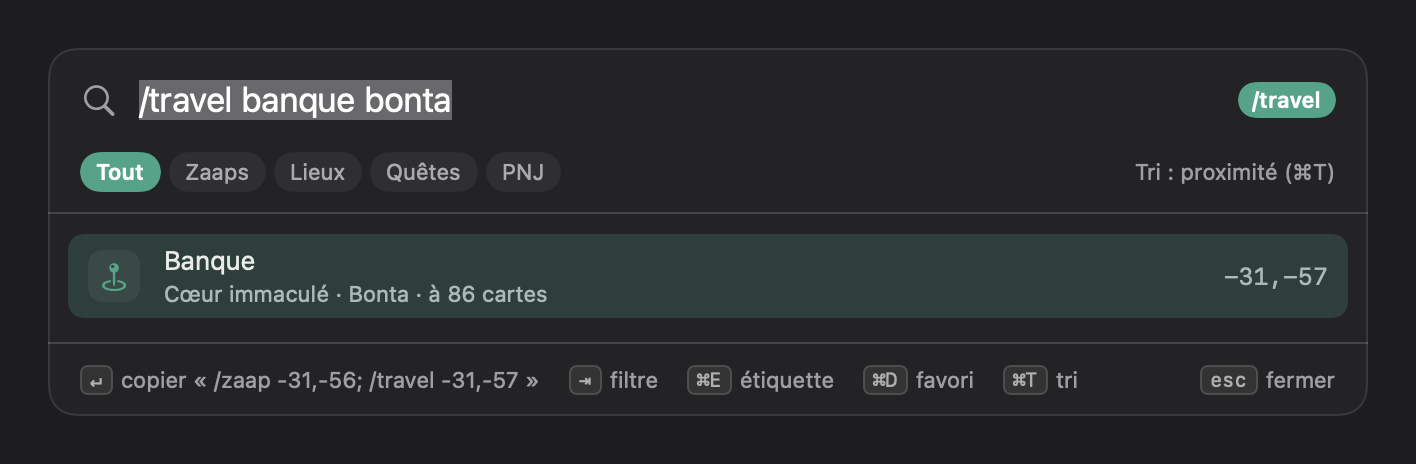
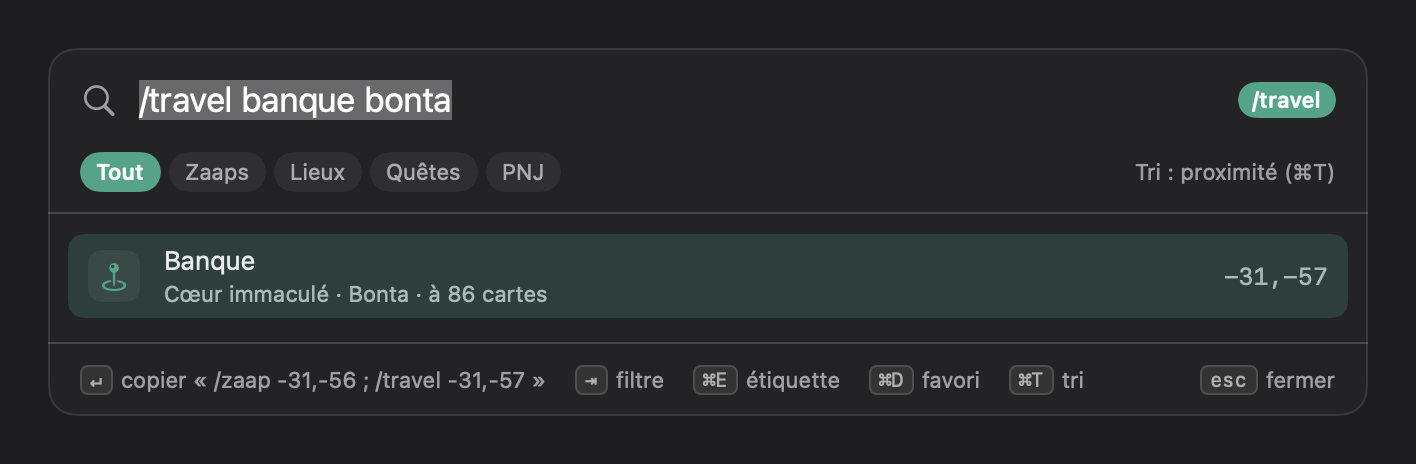
fix(zaaps): une espace avant le « ; » de /zaap x,y ; /travel a,b
Sans elle, le jeu n'enchaîne pas toujours les deux commandes (retour de
l'utilisateur). Un seul foyer, ItineraireZaap.reecrire : palette,
réécriture du /travel, panneau de quête et chasse en profitent.

Changed region(s): [[0.2486, 0.7845, 0.7768, 0.8448]]

diff --git a/Tests/SynfusTests/ItineraireZaapTests.swift b/Tests/SynfusTests/ItineraireZaapTests.swift
@@ -23,7 +23,7 @@ struct ItineraireZaapTests {
 
     @Test("Tout autre texte est ignoré")
     func autresTextes() {
-        for texte in ["", "-2,0", "/invite Brok", "/zaap -2,0; /travel 5,7", "/Travel -2,0",
+        for texte in ["", "-2,0", "/invite Brok", "/zaap -2,0 ; /travel 5,7", "/Travel -2,0",
                       "voir /travel -2,0", "/travel -2,0 merci", "/travel -2,0\n/travel 3,4",
                       "/travel -2", "/travel 999,0", "/traveler 1,2"] {
             #expect(ItineraireZaap.cible(dans: texte) == nil, "\(texte)")
@@ -35,7 +35,7 @@ struct ItineraireZaapTests {
     func reecrit() {
         // Cible à deux cartes du zaap de Coin des Bouftous (5,7).
         let texte = ItineraireZaap.reecrire("/travel 6,8", depuis: position(-30, -40), gainMinimal: 5, zaaps: zaaps)
-        #expect(texte == "/zaap 5,7; /travel 6,8")
+        #expect(texte == "/zaap 5,7 ; /travel 6,8")
     }
 
     @Test("Un gain sous le seuil laisse le presse-papiers intact")
@@ -43,7 +43,7 @@ struct ItineraireZaapTests {
         // Depuis -2,0 (zaap d'Amakna) vers 3,-3 : 8 cartes à pied, 2 depuis
         // le zaap du Château (3,-5) — 6 de gagnées.
         #expect(ItineraireZaap.reecrire("/travel 3,-3", depuis: position(-2, 0), gainMinimal: 6, zaaps: zaaps)
-                == "/zaap 3,-5; /travel 3,-3")
+                == "/zaap 3,-5 ; /travel 3,-3")
         #expect(ItineraireZaap.reecrire("/travel 3,-3", depuis: position(-2, 0), gainMinimal: 7, zaaps: zaaps) == nil)
     }
 
@@ -66,7 +66,7 @@ struct ItineraireZaapTests {
         #expect(zaaps.allSatisfy { $0.monde == Zaap.mondeDesDouze })
         // Sans cela, un /travel 3,-1 d'Amakna passerait par le cimetière d'Incarnam.
         #expect(ItineraireZaap.reecrire("/travel 3,-1", depuis: position(-40, 20), gainMinimal: 1, zaaps: zaaps)
-                == "/zaap 3,-5; /travel 3,-1")
+                == "/zaap 3,-5 ; /travel 3,-1")
     }
 
     @Test("Un zaap décoché n'est plus proposé, un zaap d'une autre carte coché l'est")
@@ -88,7 +88,7 @@ struct ItineraireZaapTests {
         #expect(tous.first { $0.cle == doublon.cle }?.nom(en: .fr) == "Village d'Amakna")
         let actifs = CatalogueZaaps.actifs(base: Carte.integree.zaaps, ajoutes: [nouveau], choix: [:])
         #expect(ItineraireZaap.reecrire("/travel 51,50", depuis: position(0, 0), gainMinimal: 5, zaaps: actifs)
-                == "/zaap 50,50; /travel 51,50")
+                == "/zaap 50,50 ; /travel 51,50")
     }
 
     @Test("Les commandes composées se relisent comme une cible")

diff --git a/Sources/Synfus/Zaaps/ItineraireZaap.swift b/Sources/Synfus/Zaaps/ItineraireZaap.swift
@@ -52,7 +52,7 @@ enum ItineraireZaap {
         zaaps.min { distance(($0.x, $0.y), cible) < distance(($1.x, $1.y), cible) }
     }
 
-    /// `/zaap x,y; /travel a,b` si le zaap de `zaaps` le plus proche de la
+    /// `/zaap x,y ; /travel a,b` si le zaap de `zaaps` le plus proche de la
     /// cible épargne au moins `gainMinimal` cartes depuis `position` ; `nil` sinon.
     static func reecrire(
         _ texte: String, depuis position: PositionCarte?, gainMinimal: Int, zaaps: [Zaap]
@@ -64,7 +64,8 @@ enum ItineraireZaap {
         let gain = distance((position.x, position.y), cible) - distance((zaap.x, zaap.y), cible)
         guard gain >= gainMinimal else { return nil }
         let travel = texte.trimmingCharacters(in: .whitespacesAndNewlines)
-        return "\(Self.zaap(zaap)); \(travel)"
+        // L'espace avant le « ; » : sans elle, le jeu lit mal l'enchaînement.
+        return "\(Self.zaap(zaap)) ; \(travel)"
     }
 
     /// Les régions dont les coordonnées ne sont pas celles du Monde des Douze

diff --git a/Tests/SynfusTests/RecherchePaletteTests.swift b/Tests/SynfusTests/RecherchePaletteTests.swift
@@ -50,7 +50,7 @@ struct RecherchePaletteTests {
         #expect(entree.titre == "Banque")
         #expect(entree.sousTitre?.contains("Bonta") == true)
         let texte = try #require(RecherchePalette.texte(de: entree.effet, contexte()))
-        #expect(texte.hasPrefix("/zaap -31,-56; /travel "))
+        #expect(texte.hasPrefix("/zaap -31,-56 ; /travel "))
     }
 
     @Test("Les surnoms des joueurs : fm, hdv conso")
@@ -69,7 +69,7 @@ struct RecherchePaletteTests {
     @Test("/travel x,y : le trajet, zaap compris")
     func travelCoordonnees() {
         #expect(premiere("/travel 6,8", contexte(position: PositionCarte(x: -30, y: -40, zone: nil)))?.effet
-                == .copier("/zaap 5,7; /travel 6,8"))
+                == .copier("/zaap 5,7 ; /travel 6,8"))
     }
 
     @Test("/ liste les commandes ; une commande à argument se complète")

diff --git a/Tests/SynfusTests/CapturesTests.swift b/Tests/SynfusTests/CapturesTests.swift
@@ -20,7 +20,7 @@ struct CapturesTests {
                                "1:-2,0": "Village", "1:-16,1": "Koalak", "1:5,7": "Bouftou",
                                "1:-31,-56": "Bonta", "1:-26,37": "Brâk"]
         contexte.favoris = ["1:-31,-56", "1:-26,37", "1:-78,-41"]
-        contexte.recents = ["/zaap -31,-56; /travel -31,-57", "/invite Brok; /invite Cid", "%pos%"]
+        contexte.recents = ["/zaap -31,-56 ; /travel -31,-57", "/invite Brok; /invite Cid", "%pos%"]
         contexte.invitationEquipe = "/invite Brok; /invite Cid"
         contexte.invitations = [(nom: "Brok", commande: "/invite Brok"), (nom: "Cid", commande: "/invite Cid")]
         return contexte

diff --git a/CLAUDE.md b/CLAUDE.md
@@ -88,7 +88,7 @@ nouveau fichier va dans le dossier de son domaine ; un fichier sans domaine en a
 | `Clients/` | `DofusClient`, `WindowTitle`, `ClientMemory`, `Equipes`, `Rotation` (purs) ; `WindowManager` (+`PremierPlan`, `+Effectif`, `+Focus`, `+Fermeture`), `ClientInventoryEngine`, `ClientTerminator`, `FreezeWatcher` |
 | `Invitations/` | `/invite Nom` : `InvitationComposer` (pur), `InvitationClipboard` |
 | `Carte/` | Tous les repères du jeu (zaaps, banques, ateliers, donjons…) : `Lieu`, `Carte` (purs), `CarteDofusDB` (téléchargement, cache disque, `--exporter-carte` → `Resources/Carte.json`), `CarteStore` |
-| `Zaaps/` | `/zaap x,y; /travel a,b` : `Zaap` (tiré de la carte), `CatalogueZaaps`, `ItineraireZaap` (purs), `ZaapClipboard` (raccourci, bouton, veille du presse-papiers) |
+| `Zaaps/` | `/zaap x,y ; /travel a,b` : `Zaap` (tiré de la carte), `CatalogueZaaps`, `ItineraireZaap` (purs), `ZaapClipboard` (raccourci, bouton, veille du presse-papiers) |
 | `Palette/` | La palette (⌘:) : `RecherchePalette`, `CommandesJeu` (purs) — zaaps, lieux, `/` commandes, `%` variables, quêtes, PNJ, gestes, dernières copies ; `PaletteModele`, `PalettePanel` (panneau key sans activer Synfus), `PaletteVue` |
 | `Quetes/` | Quêtes et PNJ situés : `Quete` (pur : renvois, ressources), `QuetesDofusDB` (téléchargement à la première palette, cache disque, 30 jours), `QuetesStore`, `QuetePanel`/`QueteVue` (panneau transparent, jamais key) |
 | `Chasse/` | Chasse au trésor : `IndicesChasse`, `EtapeChasse` (purs), `ChasseDofusDB` (indices en cache disque, étape à la demande), `ChasseModele`, `ChassePanel` (panneau key sans activer Synfus), `ChasseVue` |

diff --git a/CHANGELOG.md b/CHANGELOG.md
@@ -16,7 +16,7 @@ contenu (`Tools/notes-de-version.sh`), et `sh build.sh --publish` refuse une ver
   **étiquette** libre (« Fri 1 », « Bouftou »), posée d'un ⌘E ; ⌘D pour un favori.
 - **`/travel banque bonta`** : les **834 lieux** du jeu — banques, hôtels de vente, ateliers,
   temples, donjons, transports — avec les surnoms des joueurs (`fm`, `hdv conso`, `bijou`…). Le
-  plus proche de toi passe devant, et le trajet est copié en `/zaap x,y; /travel a,b` quand le
+  plus proche de toi passe devant, et le trajet est copié en `/zaap x,y ; /travel a,b` quand le
   zaap fait gagner du chemin.
 
   ![/travel banque bonta](https://raw.githubusercontent.com/Synseria/Synfus/v0.10.0/docs/screenshots/palette-travel.png)
@@ -67,7 +67,7 @@ contenu (`Tools/notes-de-version.sh`), et `sh build.sh --publish` refuse une ver
 - **Aide aux chasses au trésor** (bouton de la barre, raccourci ou menu) : départ lu à l'écran,
   direction aux flèches, indice saisi ou lu par OCR ; la carte vient de DofusDB et son `/travel`
   est copié — par un zaap si c'est plus court. La zone lue se calibre dans l'onglet Diagnostic.
-- **Zaaps** : un `/travel` copié devient `/zaap x,y; /travel a,b` quand un zaap épargne assez de
+- **Zaaps** : un `/travel` copié devient `/zaap x,y ; /travel a,b` quand un zaap épargne assez de
   cartes — au raccourci, au bouton de la barre, ou tout seul à chaque copie.
 - **Onglet Zaap** : tous les zaaps du jeu, activables un à un, ajouts à la main, liste tenue à jour
   depuis DofusDB (d'elle-même tous les 30 jours).

diff --git a/README.md b/README.md
@@ -18,7 +18,7 @@ connectés et permet de passer de l'un à l'autre, d'un clic ou au clavier.
   - `/zaap bonta` : le zaap par son nom, sa zone ou ton étiquette (« Fri 1 »).
   - `/travel banque bonta`, `/travel fm`, `/travel hdv conso` : les 834 lieux
     du jeu (banques, hôtels de vente, ateliers, temples, donjons, transports),
-    le plus proche de toi devant, copiés en `/zaap x,y; /travel a,b` quand
+    le plus proche de toi devant, copiés en `/zaap x,y ; /travel a,b` quand
     le zaap fait gagner du chemin.
   - `/quete wogew` : un panneau transparent avec les ressources à réunir et
     chaque objectif — un clic copie le nom ou le trajet ; `/pnj nom` : la position des PNJ que les quêtes situent.
@@ -28,7 +28,7 @@ connectés et permet de passer de l'un à l'autre, d'un clic ou au clavier.
   ![La palette](docs/screenshots/palette-zaaps.png)
   ![/travel banque bonta](docs/screenshots/palette-travel.png)
 
-- **Zaaps** : un `/travel` copié devient `/zaap x,y; /travel a,b` quand un
+- **Zaaps** : un `/travel` copié devient `/zaap x,y ; /travel a,b` quand un
   zaap épargne assez de cartes — au raccourci, ou tout seul à chaque copie.
   Ta position est lue à l'écran.
 - **Chasse au trésor** : départ lu à l'écran, direction aux flèches, indice
